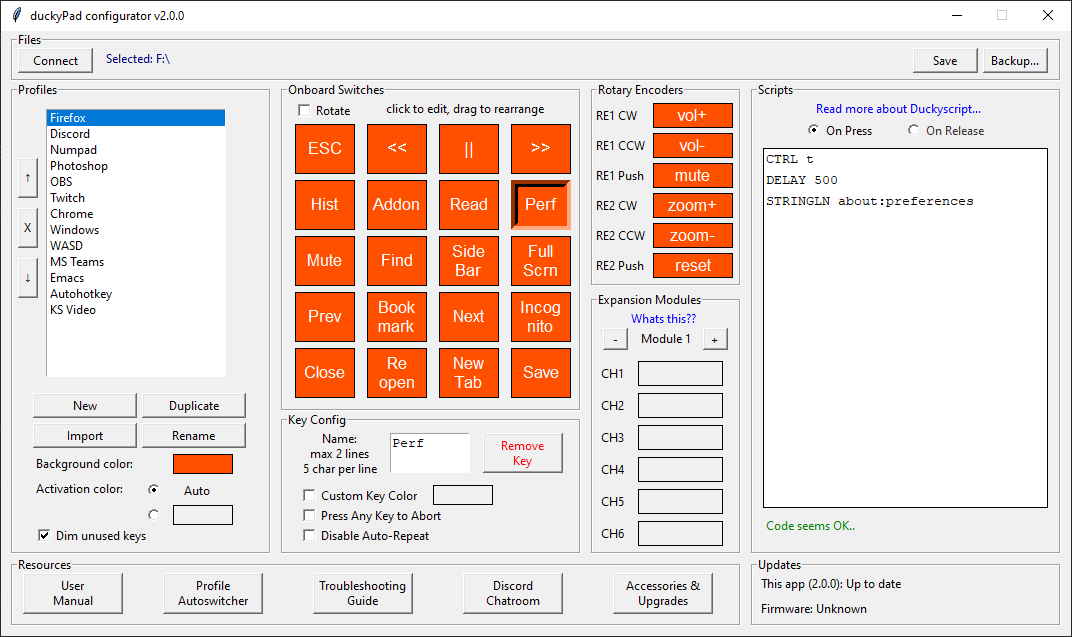
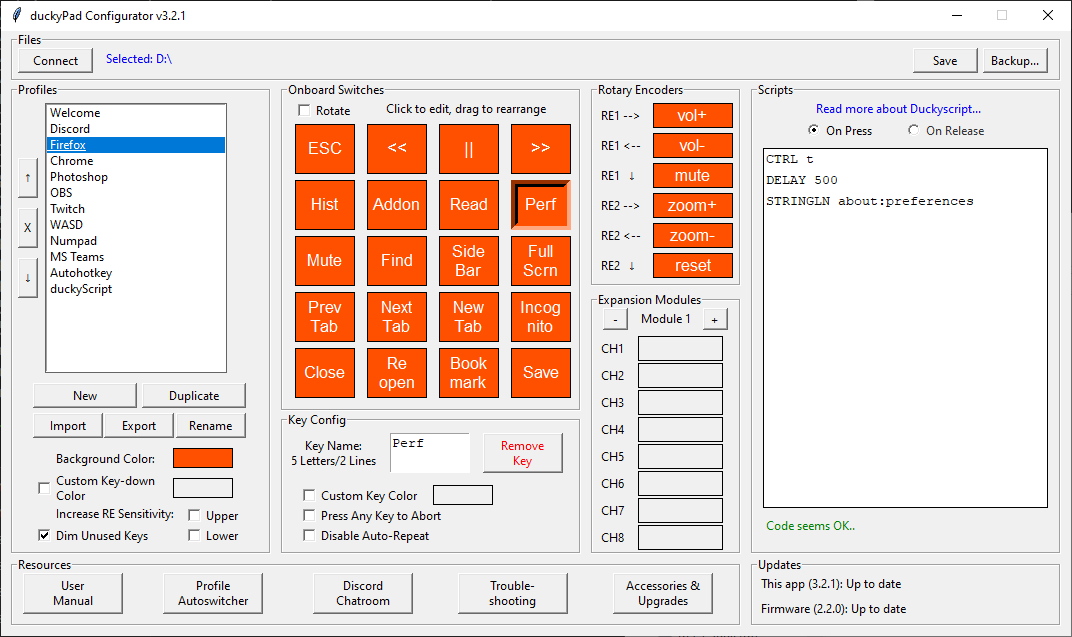
updated screenshots

diff --git a/doc/getting_started.md b/doc/getting_started.md
@@ -102,7 +102,11 @@ Click `New` button, give it a name.
 
 * Use the `up/down/x` buttons to reorder/delete profiles.
 
-* `Activation color` is the color that a key changes into when you press it.
+----
+
+* `Keydown color` is the color that a key changes into when you press it.
+	* Default is the inverse of background color
+	* You can also set your own
 
 ### Keys
 
